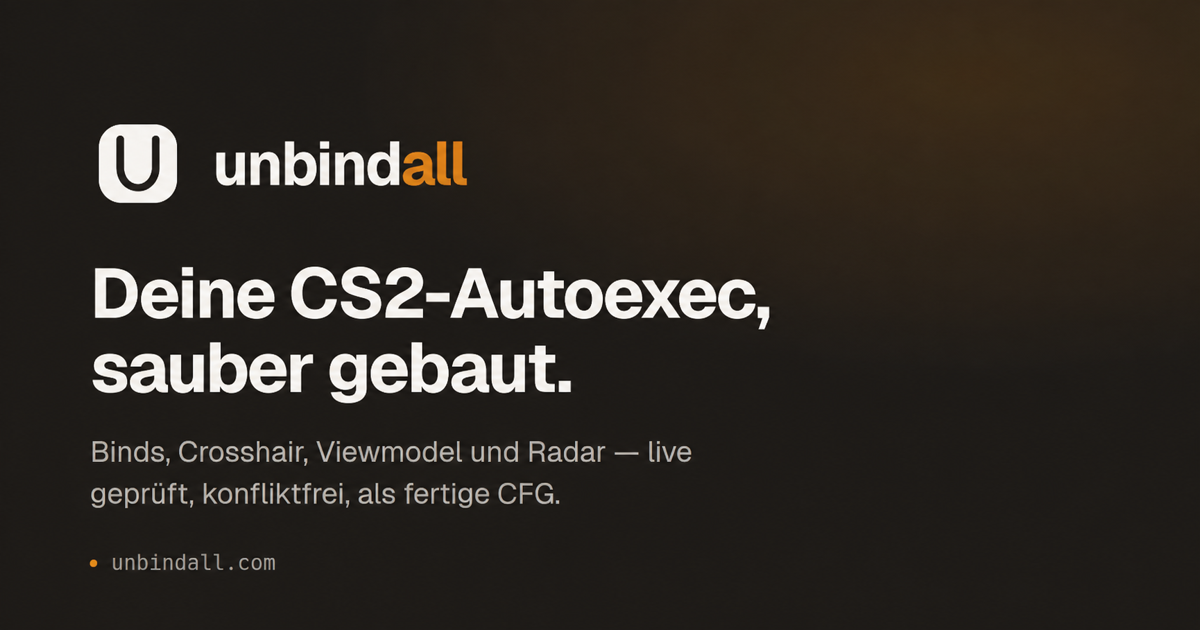
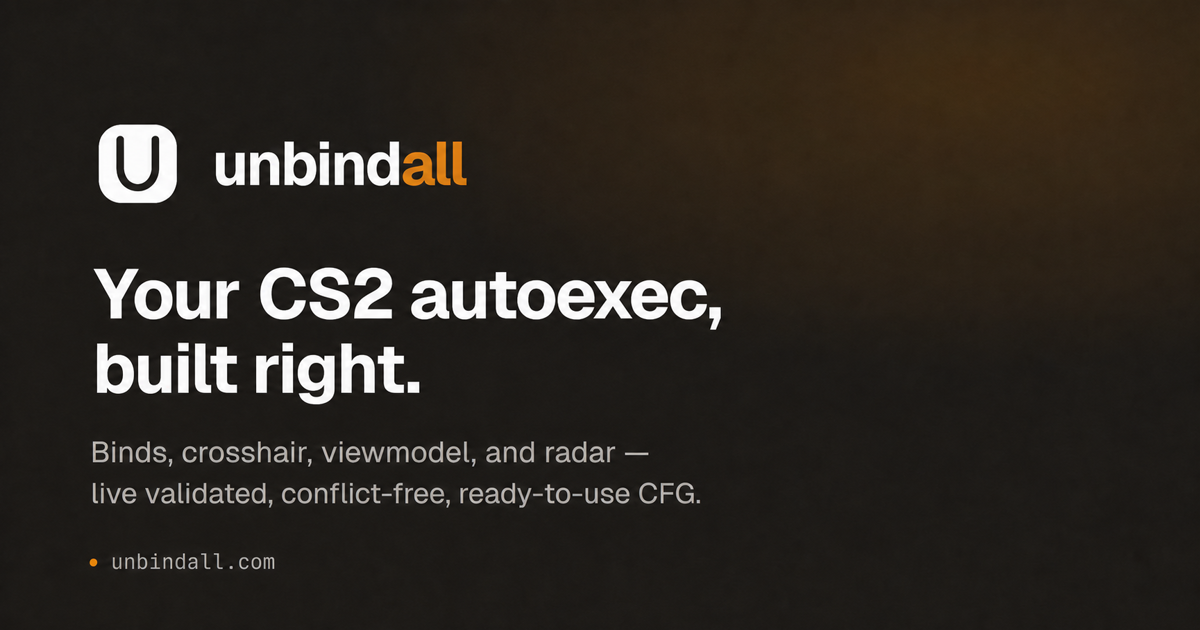
Translate social preview to English

diff --git a/README.md b/README.md
@@ -110,7 +110,7 @@ Then run:
 ```bash
 pnpm install
 pnpm db:migrate
-pnpm db:seed:community # optional: Demo-Beiträge für die Community
+pnpm db:seed:community # optional: community demo posts
 pnpm dev
 ```
 
